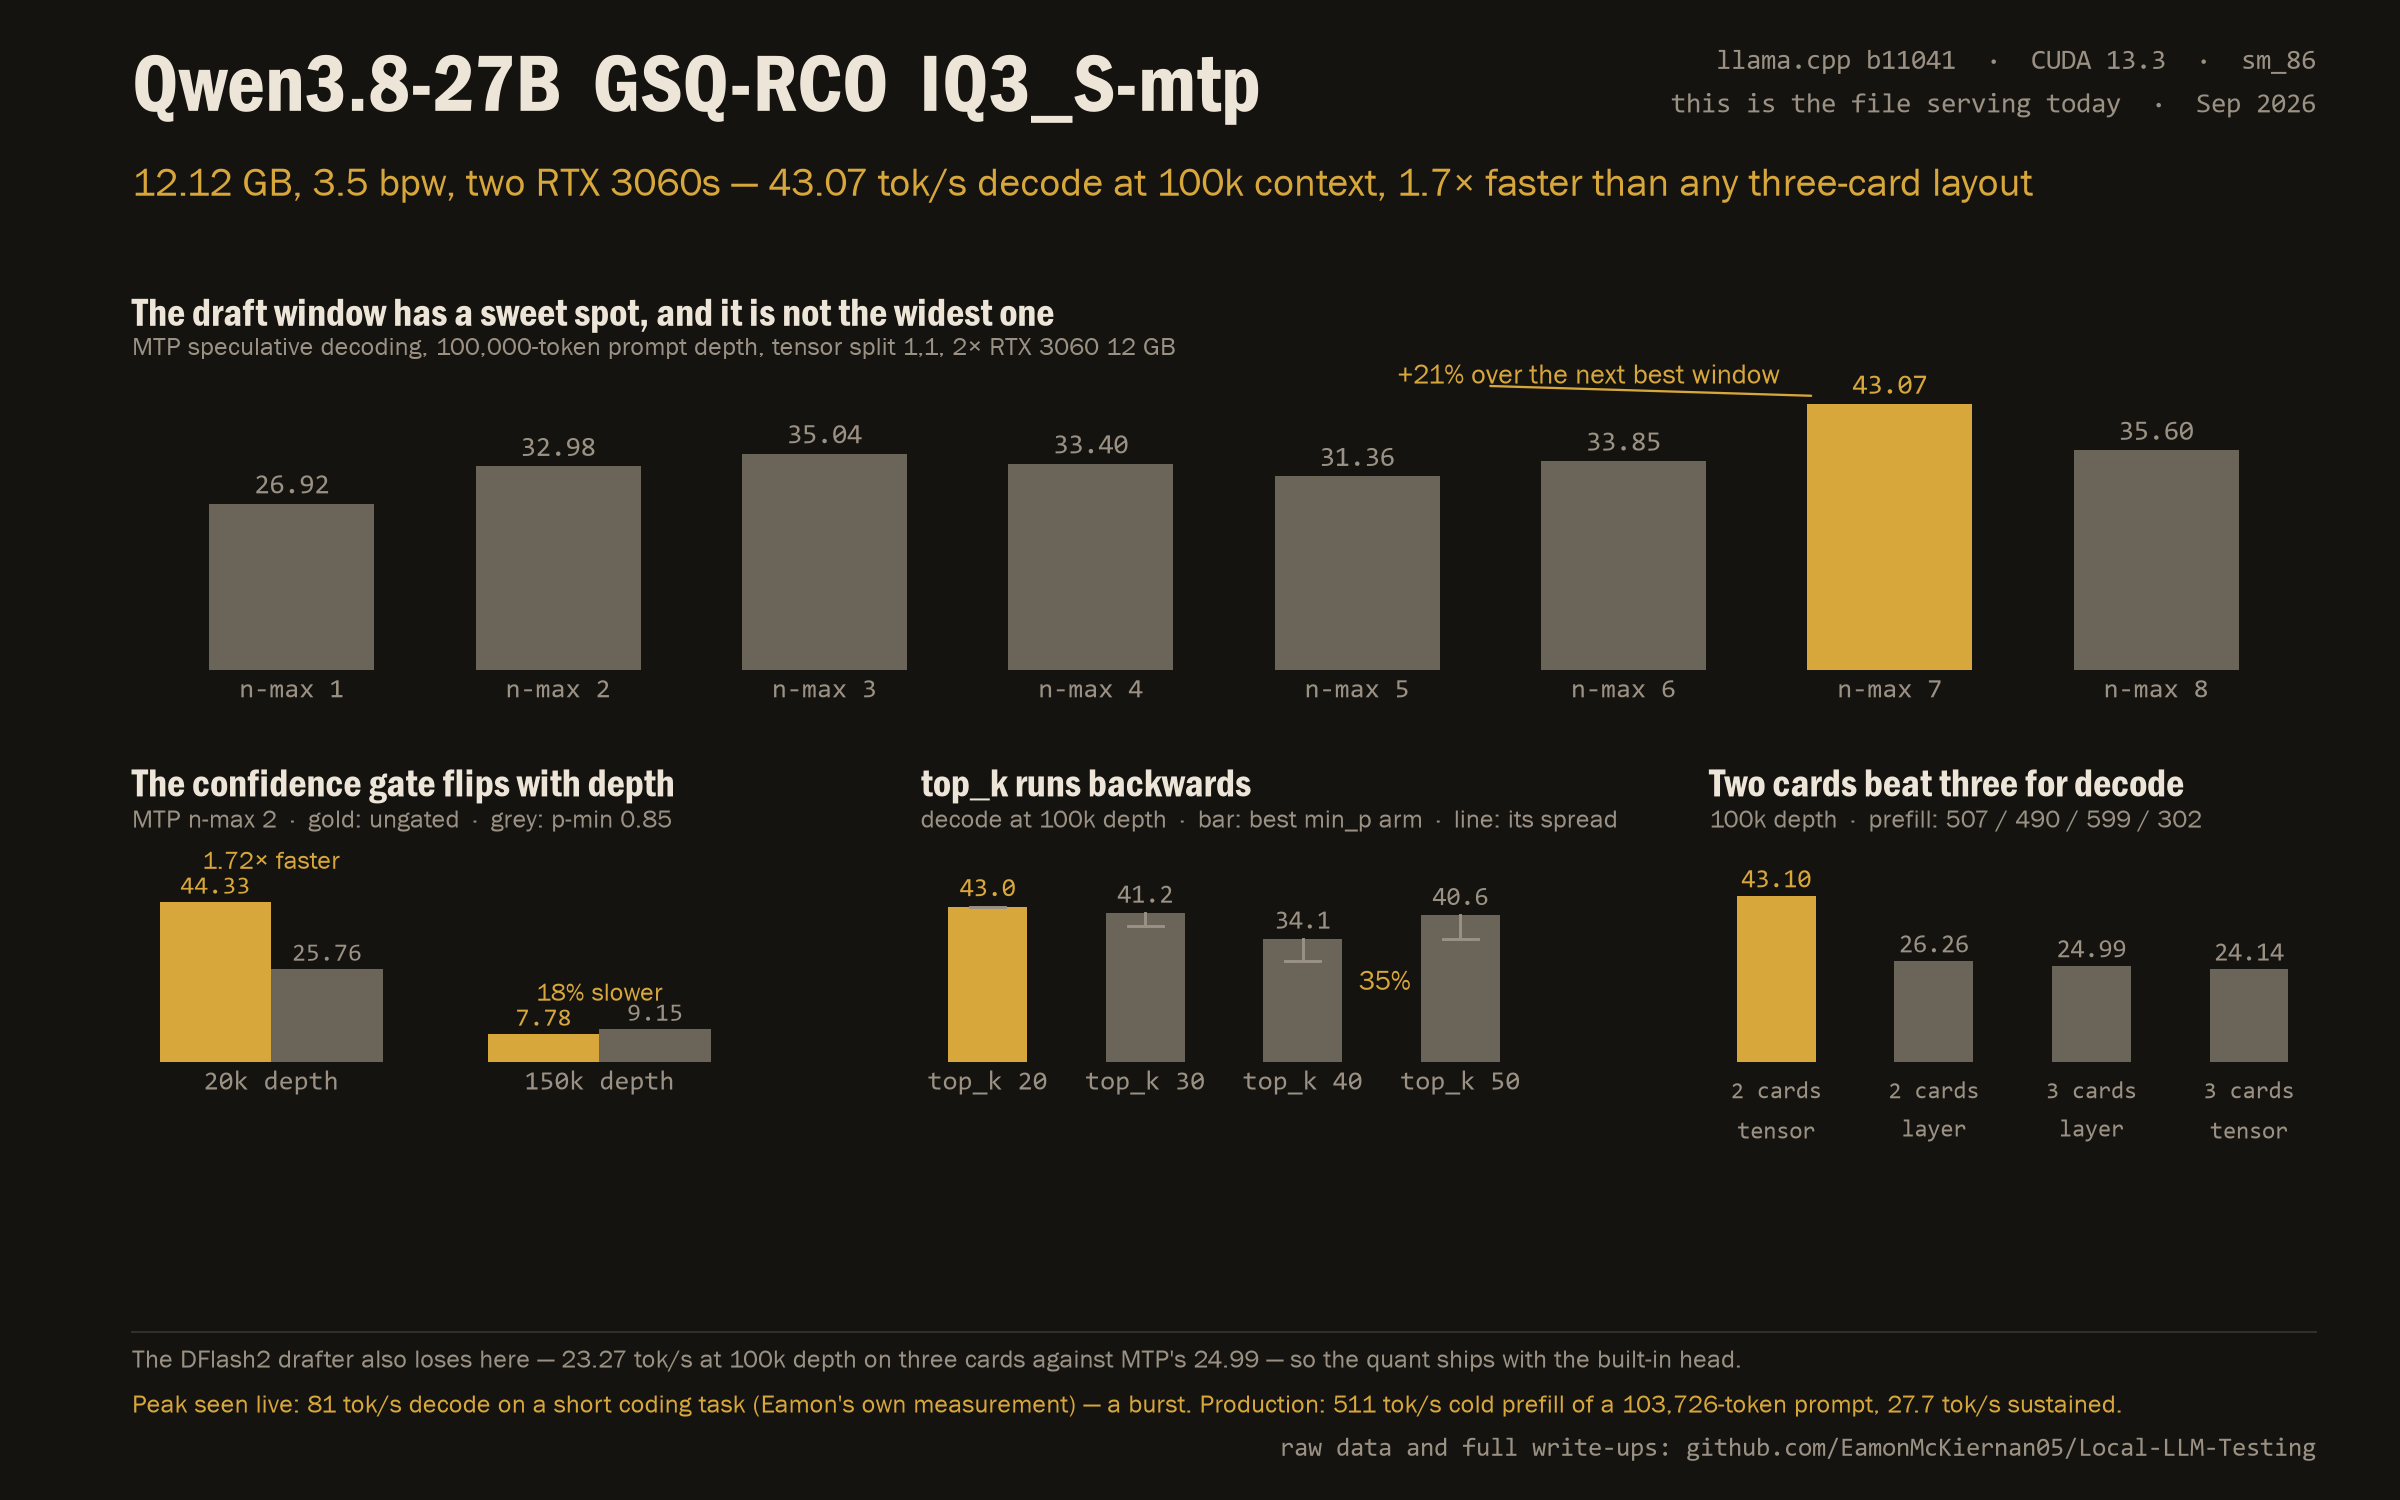
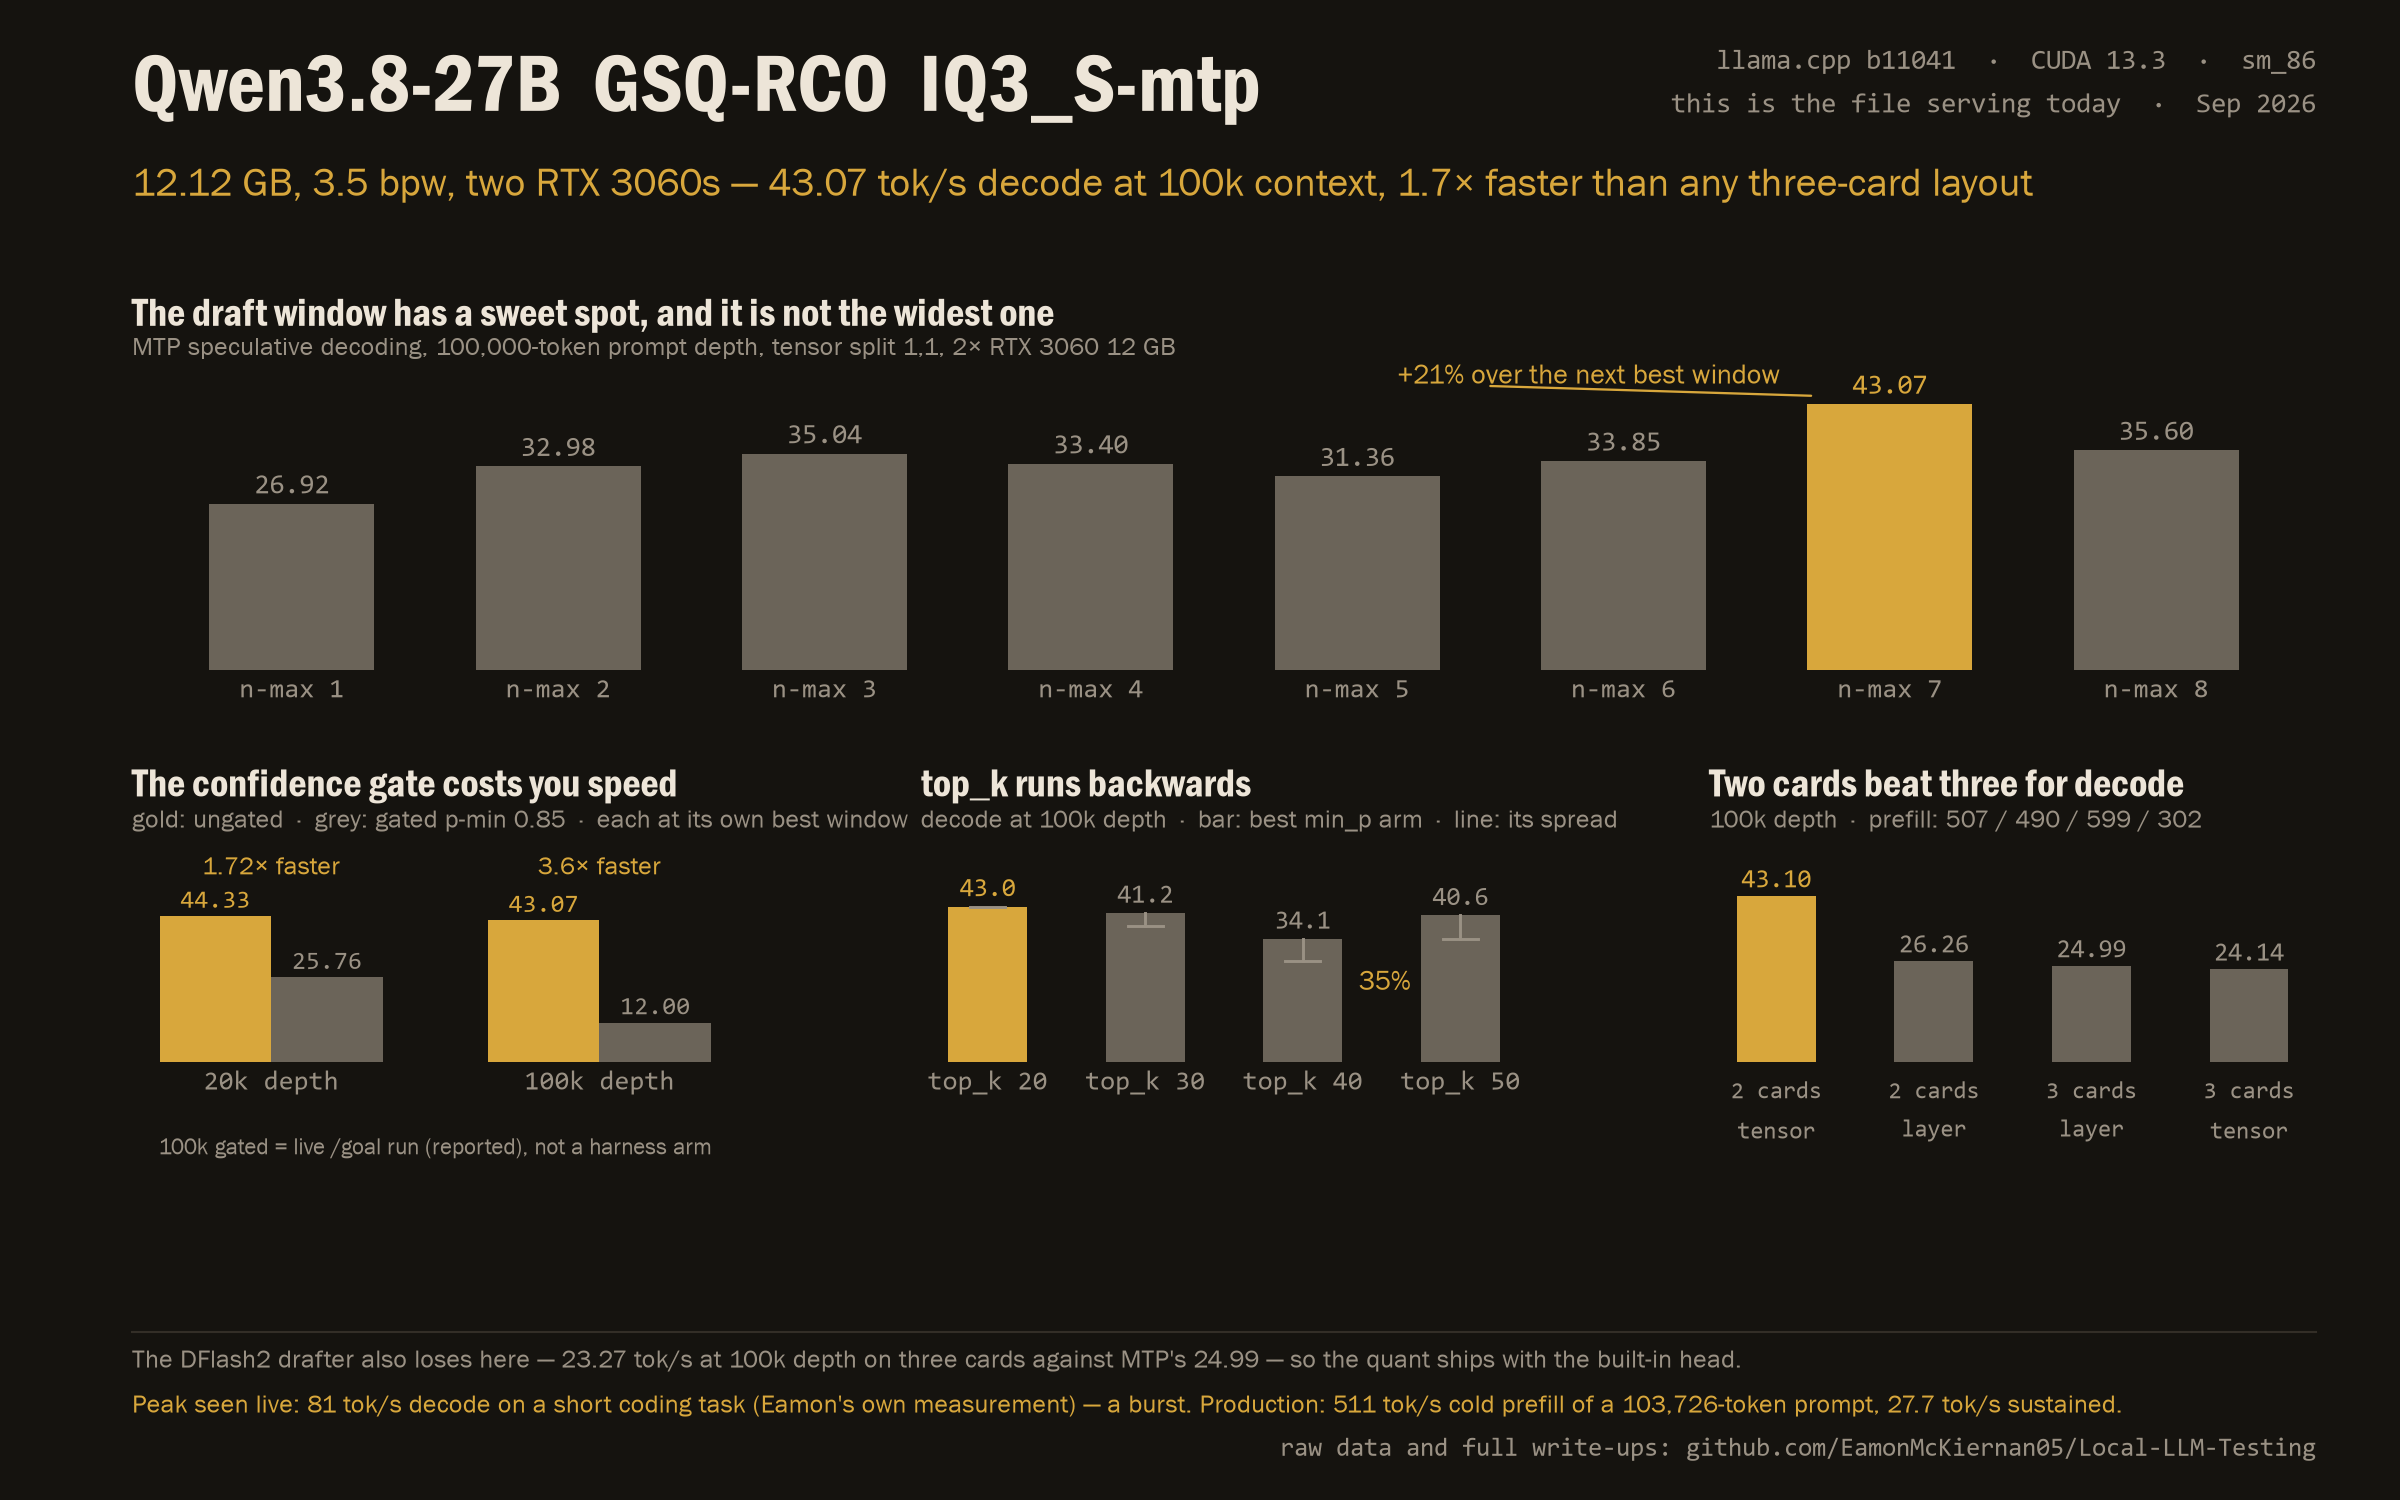
IQ3_S chart: 100k gate panel uses the number we have; 150k stays in the data
The gate panel now compares 20k (44.33 measured vs 25.76 measured) and 100k
(43.07 measured ungated vs ~12 from a live /goal agent run, reported by
Eamon and tagged as such on the chart).

The 150k gated/ungated pair is off the chart but NOT out of the record: it
stays in the experiment write-ups, SAMPLERS.md and the CSVs, because three
separate sources put ~8-12 tok/s at that depth (the sweep's 8.44 no-spec at
149,462 tokens, the DFlash2 arm's 12.63 at 149,462, and Eamon's own live
report of ~12 tok/s at 150k with MTP). Deleting measured data because a
number looks wrong is the wrong fix; re-running the two arms is the right
one.

The ~12 figure is recorded in live-service-summary.csv with its provenance
and an explicit note that it is not comparable with the harness arms.

Changed region(s): [[0.0625, 0.4907, 0.375, 0.6133], [0.1875, 0.6133, 0.2812, 0.7053], [0.125, 0.6133, 0.1562, 0.6747]]

diff --git a/qwen3.8-27b-llama-cpp/scripts/make_chart_iq3s.py b/qwen3.8-27b-llama-cpp/scripts/make_chart_iq3s.py
@@ -56,9 +56,10 @@ ny = [f(r["gen tok/s"]) for r in nmax]
 gate = {r["arm"]: r for r in load("two-card-20k-verification-3-repeats.csv")}
 g20_un = f(gate["n-max 2, p-min 0.00"]["mean"])
 g20_g = f(gate["n-max 2, p-min 0.85"]["mean"])
-n150 = load("two-card-mtp-nmax-150k.csv")
-g150_un = f(next(r["gen tok/s"] for r in n150 if r["p-min"] == "0.00" and r["n-max"] == "2"))
-g150_g = f(next(r["gen tok/s"] for r in n150 if r["p-min"] == "0.85" and r["n-max"] == "2"))
+# 100k ungated is the measured stage-A winner (43.07, n-max 7). The 100k gated
+# figure is a live /goal agent run reported by Eamon - not a harness arm.
+g100_un = f(next(r for r in nmax if r["arm"] == "mtp7-untrimmed")["gen tok/s"])
+g100_g = 12.0
 
 trims = load("100k-stageB-topk-minp.csv")
 topk_groups = {}
@@ -120,11 +121,11 @@ ax1.annotate("", xy=(6.72, 44.4), xytext=(5.5, 46.0),
 
 # ------------------------------------------- 2. the gate flips with depth ----
 ax2 = fig.add_subplot(gs[1, 0])
-dress(ax2, "The confidence gate flips with depth",
-      "MTP n-max 2  ·  gold: ungated  ·  grey: p-min 0.85")
+dress(ax2, "The confidence gate costs you speed",
+      "gold: ungated  ·  grey: gated p-min 0.85  ·  each at its own best window")
 xs, w = [0, 1], 0.34
-vals_un = [g20_un, g150_un]
-vals_g = [g20_g, g150_g]
+vals_un = [g20_un, g100_un]
+vals_g = [g20_g, g100_g]
 ax2.bar([x - w / 2 for x in xs], vals_un, width=w, color=ACCENT, zorder=3)
 ax2.bar([x + w / 2 for x in xs], vals_g, width=w, color=QUIET, zorder=3)
 for x, v in zip([x - w / 2 for x in xs], vals_un):
@@ -134,15 +135,16 @@ for x, v in zip([x + w / 2 for x in xs], vals_g):
     ax2.annotate(f"{v:.2f}", (x, v), xytext=(0, 4), textcoords="offset points",
                  ha="center", color=INK_DIM, fontsize=12, fontfamily=MONO)
 ax2.set_xticks(xs)
-ax2.set_xticklabels(["20k depth", "150k depth"])
+ax2.set_xticklabels(["20k depth", "100k depth"])
 ax2.set_yticks([])
-ax2.set_ylim(0, 62)
-ax2.annotate("1.72× faster", xy=(0, 53.5), ha="center", color=ACCENT,
+ax2.set_ylim(0, 68)
+ax2.annotate("1.72× faster", xy=(0, 57.0), ha="center", color=ACCENT,
              fontsize=12.5, fontfamily=SANS)
-ax2.annotate("18% slower", xy=(1, 17.0), ha="center", color=ACCENT,
+ax2.annotate("3.6× faster", xy=(1, 57.0), ha="center", color=ACCENT,
              fontsize=12.5, fontfamily=SANS)
-ax2.annotate("100k depth: ungated only\n(never compared)", xy=(1.46, 31.0), ha="right",
-             va="top", color=INK_DIM, fontsize=11.5, fontfamily=SANS, linespacing=1.5)
+ax2.annotate("100k gated = live /goal run (reported), not a harness arm",
+             xy=(0.5, -0.34), xycoords="axes fraction", ha="center", va="top",
+             color=INK_DIM, fontsize=11, fontfamily=SANS, clip_on=False)
 
 # ------------------------------------------------------ 3. the top_k trap ----
 ax3 = fig.add_subplot(gs[1, 1])

diff --git a/qwen3.8-27b-llama-cpp/SAMPLERS.md b/qwen3.8-27b-llama-cpp/SAMPLERS.md
@@ -88,6 +88,8 @@ This is the MTP threshold gate: draft tokens are only proposed while the head is
 | 150k | 2 | 0.00 | 7.78 | 1.667 | 0.353 |
 | 150k | 4 | 0.85 | 8.90 | 1.667 | 0.667 |
 | 150k | 4 | 0.00 | 6.48 | 2.143 | 0.286 |
+| 100k | 7 | **0.00 (ungated)** | **43.07** | 5.310 | 0.618 |
+| 100k | not recorded | 0.85 (gated) | **12 (live /goal run, reported)** | — | — |
 
 Source: `data/csv/two-card-mtp-nmax-20k.csv`, `-150k.csv`, and `two-card-20k-verification-3-repeats.csv` (three repeats per arm with `ignore_eos` forcing exactly 256 tokens: 44.38 / 44.33 / 44.29 against 25.81 / 25.68 / 25.78).
 
@@ -98,7 +100,11 @@ Source: `data/csv/two-card-mtp-nmax-20k.csv`, `-150k.csv`, and `two-card-20k-ver
 
 The mechanical reason: at shallow depth a decode round costs roughly the same no matter how many positions get verified, so proposing more draft tokens is nearly free and rejecting them costs little. At depth, every verification position attends over the whole KV cache, so a round's cost scales with the positions verified — and rejected draft tokens become pure waste rather than free.
 
-**A gap worth stating plainly: no gated arm was ever run at 100k depth.** All 58 arms recorded at that depth ran ungated, and the gate comparison exists only at 20k and 150k. So "the gate flips with depth" is established *between those two points*, not as a curve — the crossover could sit anywhere from just above 20k to just below 150k. Reading the two points we have, the gate earns its keep when the head is unsure over a long cache (at 150k the gate truncates every arm to AL 1.667, whatever window you ask for); at 100k the ungated arms show the head still landing 5.3 tokens per round at acceptance 0.62, which is closer to the 20k behaviour than the 150k one. **That is inference, not measurement.**
+**A gap worth stating plainly: no *harness* arm was ever run gated at 100k depth.** All 58 arms recorded at that depth ran ungated, and the controlled comparison exists only at 20k and 150k. So "the gate flips with depth" is established *between those two points*, not as a curve — the crossover could sit anywhere from just above 20k to just below 150k.
+
+The one gated figure at 100k is a live number: **about 12 tok/s during a `/goal` agent run**, reported by Eamon, with no recorded flags, window or n-max. It is in the table above for completeness and it is **not** a like-for-like comparison with the 43.07 tok/s ungated harness arm — different workload, different everything except the model and the card count. Read it as "the gate was visibly slow in real use at that depth", not as a 3.6x factor.
+
+Reading the two controlled points, the gate earns its keep when the head is unsure over a long cache (at 150k the gate truncates every arm to AL 1.667, whatever window you ask for); at 100k the ungated arms show the head still landing 5.3 tokens per round at acceptance 0.62, which is closer to the 20k behaviour than the 150k one. **That is inference, not measurement.**
 
 **What we could not explain:** in the 20k pair, acceptance length is nearly the same in both arms (2.381 ungated vs 2.439 gated) and the ungated arm proposes *more* draft tokens per round, yet it finishes a 256-token generation in 5,752 ms against the gated arm's 9,891 ms. Roughly 1.8× the time per round for the same tokens per round. Some cost is attached to the gating path itself, not the draft window. A `p-min` curve at `n-max 2` (0.0 / 0.4 / 0.6 / 0.7 / 0.8 / 0.85 / 0.9 / 0.95) would show whether that cost is a cliff or a gradual slope. **Not run.**
 

diff --git a/qwen3.8-27b-llama-cpp/README.md b/qwen3.8-27b-llama-cpp/README.md
@@ -103,11 +103,12 @@ Widening the pool makes the target pick less predictable tokens, so the draft he
 | depth | ungated (`0.00`) | gated (`0.85`) | winner |
 |---|---|---|---|
 | 20k | **44.33** | 25.76 | ungated, by 1.72x |
+| 100k | **43.07** | ~12 *(live `/goal` run, reported)* | ungated — not a like-for-like pair |
 | 150k | 7.78 | **9.15** | gated, by 18% |
 
 At shallow depth a decode round is flat-cost, so rejected draft tokens are nearly free. At depth every verification position reads the whole KV cache, so rejected drafts are pure waste. The 20k penalty is **not** explained by acceptance — the gated arm shows the *higher* acceptance rate (0.96 against 0.67) and is much slower. Acceptance rate is not a performance metric. The adopted configuration runs **ungated**.
 
-**And the gap in that table:** the comparison exists at 20k and 150k only. All 58 arms recorded at 100k depth ran ungated, so where the crossover actually sits — above or below 100k — is unmeasured.
+**And the gap in that table:** the controlled comparison exists at 20k and 150k only. All 58 arms recorded at 100k depth ran ungated; the 100k gated figure is a live `/goal` agent run, so it says the gate was slow in real use at that depth but is not the same measurement as the arm beside it. Where the crossover sits — above or below 100k — is still unmeasured.
 
 **`--spec-draft-n-max` peaks at 7 at 100k depth** (43.07; `n-max 8` is 35.60) and at **2 at 20k** (44.33). Wider is never better.
 
